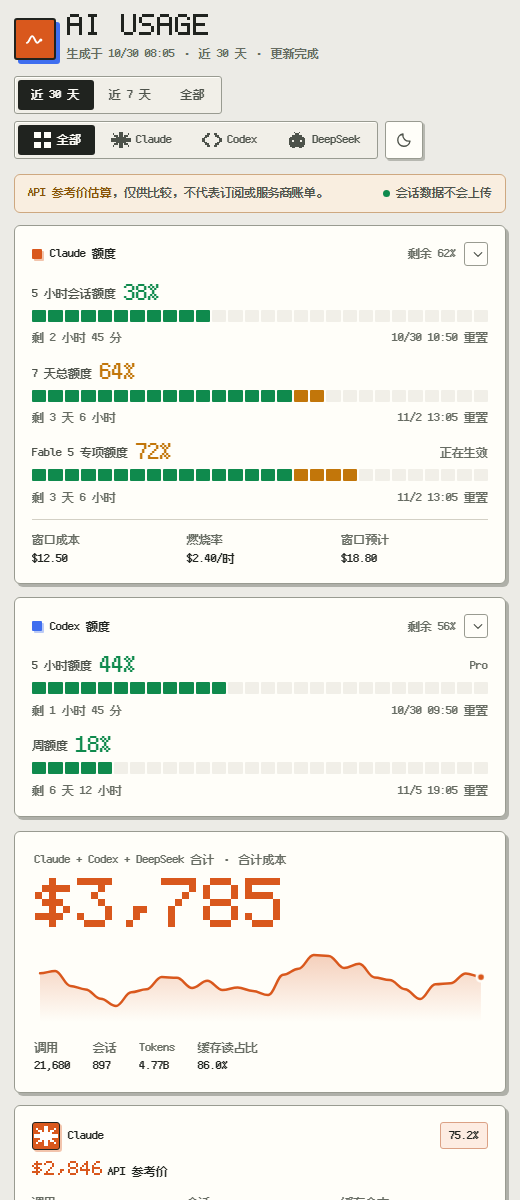
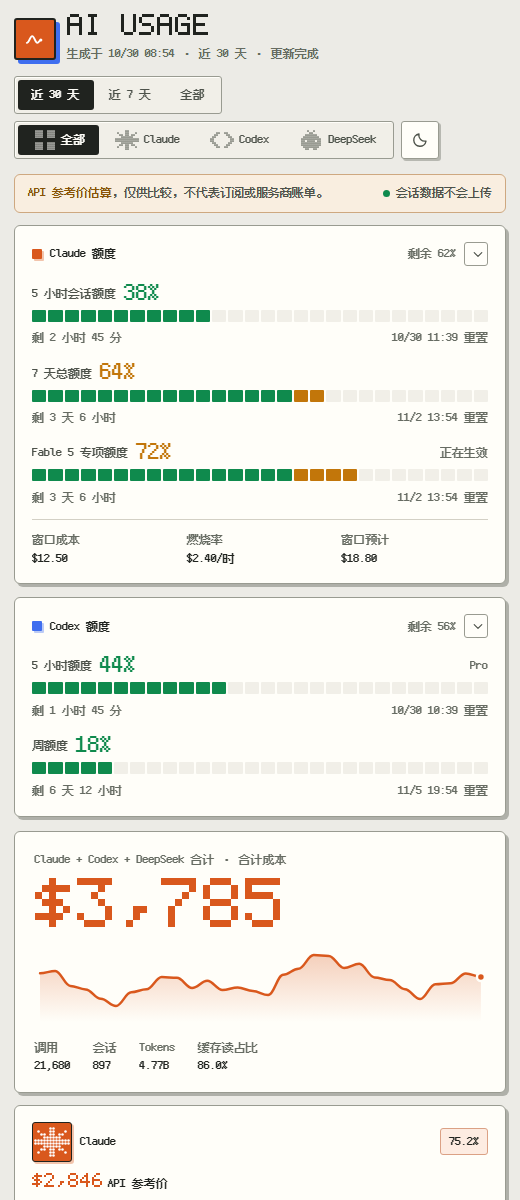
style: render the provider marks as perler-bead mosaics
Each filled cell is now a round bead (r .42, anti-aliased) instead of a solid square, so the four provider glyphs read like a fuse-bead chart: beads separate into individual dots at the card chip and blur into a dotted silhouette at filter size, which is the honest limit at 24px. The chip grows to 40px and the glyph to 36px so the bead pitch clears three pixels; everything else keeps its size. Docs screenshots re-rendered.

diff --git a/src/template.html b/src/template.html
@@ -278,8 +278,8 @@
   .prov { padding: 1rem 1.1rem; --p: var(--claude); display: grid; gap: .7rem; }
   .prov-top { display: flex; align-items: center; gap: .5rem; }
   .prov-name { display: inline-flex; align-items: center; gap: .5rem; font-weight: 700; }
-  .prov-name .chip { inline-size: 28px; block-size: 28px; border: 1px solid var(--ink); border-radius: var(--r-item); display: grid; place-items: center; color: #fff; background: var(--p); box-shadow: 2px 2px 0 color-mix(in oklab, var(--p) 35%, transparent); flex: none; }
-  .prov-name .chip svg { inline-size: 24px; block-size: 24px; }
+  .prov-name .chip { inline-size: 40px; block-size: 40px; border: 1px solid var(--ink); border-radius: var(--r-item); display: grid; place-items: center; color: #fff; background: var(--p); box-shadow: 2px 2px 0 color-mix(in oklab, var(--p) 35%, transparent); flex: none; }
+  .prov-name .chip svg { inline-size: 36px; block-size: 36px; }
   .prov-share { margin-inline-start: auto; padding: .15rem .5rem; border: 1px solid color-mix(in oklab, var(--p) 42%, var(--line)); border-radius: var(--r-item); background: color-mix(in oklab, var(--p) 11%, var(--card)); color: var(--ink); font-size: .75rem; font-weight: 600; }
   .prov-cost-row { display: flex; align-items: end; gap: .35rem; flex-wrap: wrap; min-inline-size: 0; }
   .prov-cost { display: inline-block; max-inline-size: 100%; color: var(--p); }
@@ -561,77 +561,237 @@
     <path d="M4 15.5c2.6 0 3.2-7 5.6-7s2.9 7 5.4 7c1.6 0 2.3-3 3.6-3"/>
     <circle cx="18.6" cy="12.5" r="1.6" fill="currentColor" stroke="none"/>
   </symbol>
-  <symbol id="i-all" viewBox="0 0 12 12" fill="currentColor" shape-rendering="crispEdges">
-    <rect x="2" y="1" width="4" height="1"/>
-    <rect x="8" y="1" width="4" height="1"/>
-    <rect x="2" y="2" width="4" height="1"/>
-    <rect x="8" y="2" width="4" height="1"/>
-    <rect x="2" y="3" width="4" height="1"/>
-    <rect x="8" y="3" width="4" height="1"/>
-    <rect x="2" y="4" width="4" height="1"/>
-    <rect x="8" y="4" width="4" height="1"/>
-    <rect x="2" y="7" width="4" height="1"/>
-    <rect x="8" y="7" width="4" height="1"/>
-    <rect x="2" y="8" width="4" height="1"/>
-    <rect x="8" y="8" width="4" height="1"/>
-    <rect x="2" y="9" width="4" height="1"/>
-    <rect x="8" y="9" width="4" height="1"/>
-    <rect x="2" y="10" width="4" height="1"/>
-    <rect x="8" y="10" width="4" height="1"/>
+  <symbol id="i-all" viewBox="0 0 12 12" fill="currentColor">
+    <circle cx="2.5" cy="1.5" r="0.42" fill="currentColor"/>
+    <circle cx="3.5" cy="1.5" r="0.42" fill="currentColor"/>
+    <circle cx="4.5" cy="1.5" r="0.42" fill="currentColor"/>
+    <circle cx="5.5" cy="1.5" r="0.42" fill="currentColor"/>
+    <circle cx="8.5" cy="1.5" r="0.42" fill="currentColor"/>
+    <circle cx="9.5" cy="1.5" r="0.42" fill="currentColor"/>
+    <circle cx="10.5" cy="1.5" r="0.42" fill="currentColor"/>
+    <circle cx="11.5" cy="1.5" r="0.42" fill="currentColor"/>
+    <circle cx="2.5" cy="2.5" r="0.42" fill="currentColor"/>
+    <circle cx="3.5" cy="2.5" r="0.42" fill="currentColor"/>
+    <circle cx="4.5" cy="2.5" r="0.42" fill="currentColor"/>
+    <circle cx="5.5" cy="2.5" r="0.42" fill="currentColor"/>
+    <circle cx="8.5" cy="2.5" r="0.42" fill="currentColor"/>
+    <circle cx="9.5" cy="2.5" r="0.42" fill="currentColor"/>
+    <circle cx="10.5" cy="2.5" r="0.42" fill="currentColor"/>
+    <circle cx="11.5" cy="2.5" r="0.42" fill="currentColor"/>
+    <circle cx="2.5" cy="3.5" r="0.42" fill="currentColor"/>
+    <circle cx="3.5" cy="3.5" r="0.42" fill="currentColor"/>
+    <circle cx="4.5" cy="3.5" r="0.42" fill="currentColor"/>
+    <circle cx="5.5" cy="3.5" r="0.42" fill="currentColor"/>
+    <circle cx="8.5" cy="3.5" r="0.42" fill="currentColor"/>
+    <circle cx="9.5" cy="3.5" r="0.42" fill="currentColor"/>
+    <circle cx="10.5" cy="3.5" r="0.42" fill="currentColor"/>
+    <circle cx="11.5" cy="3.5" r="0.42" fill="currentColor"/>
+    <circle cx="2.5" cy="4.5" r="0.42" fill="currentColor"/>
+    <circle cx="3.5" cy="4.5" r="0.42" fill="currentColor"/>
+    <circle cx="4.5" cy="4.5" r="0.42" fill="currentColor"/>
+    <circle cx="5.5" cy="4.5" r="0.42" fill="currentColor"/>
+    <circle cx="8.5" cy="4.5" r="0.42" fill="currentColor"/>
+    <circle cx="9.5" cy="4.5" r="0.42" fill="currentColor"/>
+    <circle cx="10.5" cy="4.5" r="0.42" fill="currentColor"/>
+    <circle cx="11.5" cy="4.5" r="0.42" fill="currentColor"/>
+    <circle cx="2.5" cy="7.5" r="0.42" fill="currentColor"/>
+    <circle cx="3.5" cy="7.5" r="0.42" fill="currentColor"/>
+    <circle cx="4.5" cy="7.5" r="0.42" fill="currentColor"/>
+    <circle cx="5.5" cy="7.5" r="0.42" fill="currentColor"/>
+    <circle cx="8.5" cy="7.5" r="0.42" fill="currentColor"/>
+    <circle cx="9.5" cy="7.5" r="0.42" fill="currentColor"/>
+    <circle cx="10.5" cy="7.5" r="0.42" fill="currentColor"/>
+    <circle cx="11.5" cy="7.5" r="0.42" fill="currentColor"/>
+    <circle cx="2.5" cy="8.5" r="0.42" fill="currentColor"/>
+    <circle cx="3.5" cy="8.5" r="0.42" fill="currentColor"/>
+    <circle cx="4.5" cy="8.5" r="0.42" fill="currentColor"/>
+    <circle cx="5.5" cy="8.5" r="0.42" fill="currentColor"/>
+    <circle cx="8.5" cy="8.5" r="0.42" fill="currentColor"/>
+    <circle cx="9.5" cy="8.5" r="0.42" fill="currentColor"/>
+    <circle cx="10.5" cy="8.5" r="0.42" fill="currentColor"/>
+    <circle cx="11.5" cy="8.5" r="0.42" fill="currentColor"/>
+    <circle cx="2.5" cy="9.5" r="0.42" fill="currentColor"/>
+    <circle cx="3.5" cy="9.5" r="0.42" fill="currentColor"/>
+    <circle cx="4.5" cy="9.5" r="0.42" fill="currentColor"/>
+    <circle cx="5.5" cy="9.5" r="0.42" fill="currentColor"/>
+    <circle cx="8.5" cy="9.5" r="0.42" fill="currentColor"/>
+    <circle cx="9.5" cy="9.5" r="0.42" fill="currentColor"/>
+    <circle cx="10.5" cy="9.5" r="0.42" fill="currentColor"/>
+    <circle cx="11.5" cy="9.5" r="0.42" fill="currentColor"/>
+    <circle cx="2.5" cy="10.5" r="0.42" fill="currentColor"/>
+    <circle cx="3.5" cy="10.5" r="0.42" fill="currentColor"/>
+    <circle cx="4.5" cy="10.5" r="0.42" fill="currentColor"/>
+    <circle cx="5.5" cy="10.5" r="0.42" fill="currentColor"/>
+    <circle cx="8.5" cy="10.5" r="0.42" fill="currentColor"/>
+    <circle cx="9.5" cy="10.5" r="0.42" fill="currentColor"/>
+    <circle cx="10.5" cy="10.5" r="0.42" fill="currentColor"/>
+    <circle cx="11.5" cy="10.5" r="0.42" fill="currentColor"/>
   </symbol>
-  <symbol id="i-claude" viewBox="0 0 12 12" fill="currentColor" shape-rendering="crispEdges">
-    <rect x="5" y="1" width="2" height="1"/>
-    <rect x="1" y="2" width="1" height="1"/>
-    <rect x="5" y="2" width="2" height="1"/>
-    <rect x="10" y="2" width="1" height="1"/>
-    <rect x="2" y="3" width="2" height="1"/>
-    <rect x="5" y="3" width="2" height="1"/>
-    <rect x="8" y="3" width="2" height="1"/>
-    <rect x="3" y="4" width="6" height="1"/>
-    <rect x="0" y="5" width="12" height="1"/>
-    <rect x="0" y="6" width="12" height="1"/>
-    <rect x="3" y="7" width="6" height="1"/>
-    <rect x="2" y="8" width="2" height="1"/>
-    <rect x="5" y="8" width="2" height="1"/>
-    <rect x="8" y="8" width="2" height="1"/>
-    <rect x="1" y="9" width="1" height="1"/>
-    <rect x="5" y="9" width="2" height="1"/>
-    <rect x="10" y="9" width="1" height="1"/>
-    <rect x="5" y="10" width="2" height="1"/>
+  <symbol id="i-claude" viewBox="0 0 12 12" fill="currentColor">
+    <circle cx="5.5" cy="1.5" r="0.42" fill="currentColor"/>
+    <circle cx="6.5" cy="1.5" r="0.42" fill="currentColor"/>
+    <circle cx="1.5" cy="2.5" r="0.42" fill="currentColor"/>
+    <circle cx="5.5" cy="2.5" r="0.42" fill="currentColor"/>
+    <circle cx="6.5" cy="2.5" r="0.42" fill="currentColor"/>
+    <circle cx="10.5" cy="2.5" r="0.42" fill="currentColor"/>
+    <circle cx="2.5" cy="3.5" r="0.42" fill="currentColor"/>
+    <circle cx="3.5" cy="3.5" r="0.42" fill="currentColor"/>
+    <circle cx="5.5" cy="3.5" r="0.42" fill="currentColor"/>
+    <circle cx="6.5" cy="3.5" r="0.42" fill="currentColor"/>
+    <circle cx="8.5" cy="3.5" r="0.42" fill="currentColor"/>
+    <circle cx="9.5" cy="3.5" r="0.42" fill="currentColor"/>
+    <circle cx="3.5" cy="4.5" r="0.42" fill="currentColor"/>
+    <circle cx="4.5" cy="4.5" r="0.42" fill="currentColor"/>
+    <circle cx="5.5" cy="4.5" r="0.42" fill="currentColor"/>
+    <circle cx="6.5" cy="4.5" r="0.42" fill="currentColor"/>
+    <circle cx="7.5" cy="4.5" r="0.42" fill="currentColor"/>
+    <circle cx="8.5" cy="4.5" r="0.42" fill="currentColor"/>
+    <circle cx="0.5" cy="5.5" r="0.42" fill="currentColor"/>
+    <circle cx="1.5" cy="5.5" r="0.42" fill="currentColor"/>
+    <circle cx="2.5" cy="5.5" r="0.42" fill="currentColor"/>
+    <circle cx="3.5" cy="5.5" r="0.42" fill="currentColor"/>
+    <circle cx="4.5" cy="5.5" r="0.42" fill="currentColor"/>
+    <circle cx="5.5" cy="5.5" r="0.42" fill="currentColor"/>
+    <circle cx="6.5" cy="5.5" r="0.42" fill="currentColor"/>
+    <circle cx="7.5" cy="5.5" r="0.42" fill="currentColor"/>
+    <circle cx="8.5" cy="5.5" r="0.42" fill="currentColor"/>
+    <circle cx="9.5" cy="5.5" r="0.42" fill="currentColor"/>
+    <circle cx="10.5" cy="5.5" r="0.42" fill="currentColor"/>
+    <circle cx="11.5" cy="5.5" r="0.42" fill="currentColor"/>
+    <circle cx="0.5" cy="6.5" r="0.42" fill="currentColor"/>
+    <circle cx="1.5" cy="6.5" r="0.42" fill="currentColor"/>
+    <circle cx="2.5" cy="6.5" r="0.42" fill="currentColor"/>
+    <circle cx="3.5" cy="6.5" r="0.42" fill="currentColor"/>
+    <circle cx="4.5" cy="6.5" r="0.42" fill="currentColor"/>
+    <circle cx="5.5" cy="6.5" r="0.42" fill="currentColor"/>
+    <circle cx="6.5" cy="6.5" r="0.42" fill="currentColor"/>
+    <circle cx="7.5" cy="6.5" r="0.42" fill="currentColor"/>
+    <circle cx="8.5" cy="6.5" r="0.42" fill="currentColor"/>
+    <circle cx="9.5" cy="6.5" r="0.42" fill="currentColor"/>
+    <circle cx="10.5" cy="6.5" r="0.42" fill="currentColor"/>
+    <circle cx="11.5" cy="6.5" r="0.42" fill="currentColor"/>
+    <circle cx="3.5" cy="7.5" r="0.42" fill="currentColor"/>
+    <circle cx="4.5" cy="7.5" r="0.42" fill="currentColor"/>
+    <circle cx="5.5" cy="7.5" r="0.42" fill="currentColor"/>
+    <circle cx="6.5" cy="7.5" r="0.42" fill="currentColor"/>
+    <circle cx="7.5" cy="7.5" r="0.42" fill="currentColor"/>
+    <circle cx="8.5" cy="7.5" r="0.42" fill="currentColor"/>
+    <circle cx="2.5" cy="8.5" r="0.42" fill="currentColor"/>
+    <circle cx="3.5" cy="8.5" r="0.42" fill="currentColor"/>
+    <circle cx="5.5" cy="8.5" r="0.42" fill="currentColor"/>
+    <circle cx="6.5" cy="8.5" r="0.42" fill="currentColor"/>
+    <circle cx="8.5" cy="8.5" r="0.42" fill="currentColor"/>
+    <circle cx="9.5" cy="8.5" r="0.42" fill="currentColor"/>
+    <circle cx="1.5" cy="9.5" r="0.42" fill="currentColor"/>
+    <circle cx="5.5" cy="9.5" r="0.42" fill="currentColor"/>
+    <circle cx="6.5" cy="9.5" r="0.42" fill="currentColor"/>
+    <circle cx="10.5" cy="9.5" r="0.42" fill="currentColor"/>
+    <circle cx="5.5" cy="10.5" r="0.42" fill="currentColor"/>
+    <circle cx="6.5" cy="10.5" r="0.42" fill="currentColor"/>
   </symbol>
-  <symbol id="i-codex" viewBox="0 0 12 12" fill="currentColor" shape-rendering="crispEdges">
-    <rect x="3" y="2" width="2" height="1"/>
-    <rect x="7" y="2" width="2" height="1"/>
-    <rect x="2" y="3" width="2" height="1"/>
-    <rect x="8" y="3" width="2" height="1"/>
-    <rect x="1" y="4" width="2" height="1"/>
-    <rect x="9" y="4" width="2" height="1"/>
-    <rect x="0" y="5" width="2" height="1"/>
-    <rect x="10" y="5" width="2" height="1"/>
-    <rect x="0" y="6" width="2" height="1"/>
-    <rect x="10" y="6" width="2" height="1"/>
-    <rect x="1" y="7" width="2" height="1"/>
-    <rect x="9" y="7" width="2" height="1"/>
-    <rect x="2" y="8" width="2" height="1"/>
-    <rect x="8" y="8" width="2" height="1"/>
-    <rect x="3" y="9" width="2" height="1"/>
-    <rect x="7" y="9" width="2" height="1"/>
+  <symbol id="i-codex" viewBox="0 0 12 12" fill="currentColor">
+    <circle cx="3.5" cy="2.5" r="0.42" fill="currentColor"/>
+    <circle cx="4.5" cy="2.5" r="0.42" fill="currentColor"/>
+    <circle cx="7.5" cy="2.5" r="0.42" fill="currentColor"/>
+    <circle cx="8.5" cy="2.5" r="0.42" fill="currentColor"/>
+    <circle cx="2.5" cy="3.5" r="0.42" fill="currentColor"/>
+    <circle cx="3.5" cy="3.5" r="0.42" fill="currentColor"/>
+    <circle cx="8.5" cy="3.5" r="0.42" fill="currentColor"/>
+    <circle cx="9.5" cy="3.5" r="0.42" fill="currentColor"/>
+    <circle cx="1.5" cy="4.5" r="0.42" fill="currentColor"/>
+    <circle cx="2.5" cy="4.5" r="0.42" fill="currentColor"/>
+    <circle cx="9.5" cy="4.5" r="0.42" fill="currentColor"/>
+    <circle cx="10.5" cy="4.5" r="0.42" fill="currentColor"/>
+    <circle cx="0.5" cy="5.5" r="0.42" fill="currentColor"/>
+    <circle cx="1.5" cy="5.5" r="0.42" fill="currentColor"/>
+    <circle cx="10.5" cy="5.5" r="0.42" fill="currentColor"/>
+    <circle cx="11.5" cy="5.5" r="0.42" fill="currentColor"/>
+    <circle cx="0.5" cy="6.5" r="0.42" fill="currentColor"/>
+    <circle cx="1.5" cy="6.5" r="0.42" fill="currentColor"/>
+    <circle cx="10.5" cy="6.5" r="0.42" fill="currentColor"/>
+    <circle cx="11.5" cy="6.5" r="0.42" fill="currentColor"/>
+    <circle cx="1.5" cy="7.5" r="0.42" fill="currentColor"/>
+    <circle cx="2.5" cy="7.5" r="0.42" fill="currentColor"/>
+    <circle cx="9.5" cy="7.5" r="0.42" fill="currentColor"/>
+    <circle cx="10.5" cy="7.5" r="0.42" fill="currentColor"/>
+    <circle cx="2.5" cy="8.5" r="0.42" fill="currentColor"/>
+    <circle cx="3.5" cy="8.5" r="0.42" fill="currentColor"/>
+    <circle cx="8.5" cy="8.5" r="0.42" fill="currentColor"/>
+    <circle cx="9.5" cy="8.5" r="0.42" fill="currentColor"/>
+    <circle cx="3.5" cy="9.5" r="0.42" fill="currentColor"/>
+    <circle cx="4.5" cy="9.5" r="0.42" fill="currentColor"/>
+    <circle cx="7.5" cy="9.5" r="0.42" fill="currentColor"/>
+    <circle cx="8.5" cy="9.5" r="0.42" fill="currentColor"/>
   </symbol>
-  <symbol id="i-deepseek" viewBox="0 0 12 12" fill="currentColor" shape-rendering="crispEdges">
-    <rect x="4" y="1" width="1" height="1"/>
-    <rect x="7" y="1" width="1" height="1"/>
-    <rect x="5" y="2" width="2" height="1"/>
-    <rect x="3" y="3" width="6" height="1"/>
-    <rect x="2" y="4" width="8" height="1"/>
-    <rect x="1" y="5" width="10" height="1"/>
-    <rect x="1" y="6" width="2" height="1"/>
-    <rect x="4" y="6" width="4" height="1"/>
-    <rect x="9" y="6" width="2" height="1"/>
-    <rect x="1" y="7" width="10" height="1"/>
-    <rect x="1" y="8" width="10" height="1"/>
-    <rect x="2" y="9" width="8" height="1"/>
-    <rect x="3" y="10" width="2" height="1"/>
-    <rect x="7" y="10" width="2" height="1"/>
+  <symbol id="i-deepseek" viewBox="0 0 12 12" fill="currentColor">
+    <circle cx="4.5" cy="1.5" r="0.42" fill="currentColor"/>
+    <circle cx="7.5" cy="1.5" r="0.42" fill="currentColor"/>
+    <circle cx="5.5" cy="2.5" r="0.42" fill="currentColor"/>
+    <circle cx="6.5" cy="2.5" r="0.42" fill="currentColor"/>
+    <circle cx="3.5" cy="3.5" r="0.42" fill="currentColor"/>
+    <circle cx="4.5" cy="3.5" r="0.42" fill="currentColor"/>
+    <circle cx="5.5" cy="3.5" r="0.42" fill="currentColor"/>
+    <circle cx="6.5" cy="3.5" r="0.42" fill="currentColor"/>
+    <circle cx="7.5" cy="3.5" r="0.42" fill="currentColor"/>
+    <circle cx="8.5" cy="3.5" r="0.42" fill="currentColor"/>
+    <circle cx="2.5" cy="4.5" r="0.42" fill="currentColor"/>
+    <circle cx="3.5" cy="4.5" r="0.42" fill="currentColor"/>
+    <circle cx="4.5" cy="4.5" r="0.42" fill="currentColor"/>
+    <circle cx="5.5" cy="4.5" r="0.42" fill="currentColor"/>
+    <circle cx="6.5" cy="4.5" r="0.42" fill="currentColor"/>
+    <circle cx="7.5" cy="4.5" r="0.42" fill="currentColor"/>
+    <circle cx="8.5" cy="4.5" r="0.42" fill="currentColor"/>
+    <circle cx="9.5" cy="4.5" r="0.42" fill="currentColor"/>
+    <circle cx="1.5" cy="5.5" r="0.42" fill="currentColor"/>
+    <circle cx="2.5" cy="5.5" r="0.42" fill="currentColor"/>
+    <circle cx="3.5" cy="5.5" r="0.42" fill="currentColor"/>
+    <circle cx="4.5" cy="5.5" r="0.42" fill="currentColor"/>
+    <circle cx="5.5" cy="5.5" r="0.42" fill="currentColor"/>
+    <circle cx="6.5" cy="5.5" r="0.42" fill="currentColor"/>
+    <circle cx="7.5" cy="5.5" r="0.42" fill="currentColor"/>
+    <circle cx="8.5" cy="5.5" r="0.42" fill="currentColor"/>
+    <circle cx="9.5" cy="5.5" r="0.42" fill="currentColor"/>
+    <circle cx="10.5" cy="5.5" r="0.42" fill="currentColor"/>
+    <circle cx="1.5" cy="6.5" r="0.42" fill="currentColor"/>
+    <circle cx="2.5" cy="6.5" r="0.42" fill="currentColor"/>
+    <circle cx="4.5" cy="6.5" r="0.42" fill="currentColor"/>
+    <circle cx="5.5" cy="6.5" r="0.42" fill="currentColor"/>
+    <circle cx="6.5" cy="6.5" r="0.42" fill="currentColor"/>
+    <circle cx="7.5" cy="6.5" r="0.42" fill="currentColor"/>
+    <circle cx="9.5" cy="6.5" r="0.42" fill="currentColor"/>
+    <circle cx="10.5" cy="6.5" r="0.42" fill="currentColor"/>
+    <circle cx="1.5" cy="7.5" r="0.42" fill="currentColor"/>
+    <circle cx="2.5" cy="7.5" r="0.42" fill="currentColor"/>
+    <circle cx="3.5" cy="7.5" r="0.42" fill="currentColor"/>
+    <circle cx="4.5" cy="7.5" r="0.42" fill="currentColor"/>
+    <circle cx="5.5" cy="7.5" r="0.42" fill="currentColor"/>
+    <circle cx="6.5" cy="7.5" r="0.42" fill="currentColor"/>
+    <circle cx="7.5" cy="7.5" r="0.42" fill="currentColor"/>
+    <circle cx="8.5" cy="7.5" r="0.42" fill="currentColor"/>
+    <circle cx="9.5" cy="7.5" r="0.42" fill="currentColor"/>
+    <circle cx="10.5" cy="7.5" r="0.42" fill="currentColor"/>
+    <circle cx="1.5" cy="8.5" r="0.42" fill="currentColor"/>
+    <circle cx="2.5" cy="8.5" r="0.42" fill="currentColor"/>
+    <circle cx="3.5" cy="8.5" r="0.42" fill="currentColor"/>
+    <circle cx="4.5" cy="8.5" r="0.42" fill="currentColor"/>
+    <circle cx="5.5" cy="8.5" r="0.42" fill="currentColor"/>
+    <circle cx="6.5" cy="8.5" r="0.42" fill="currentColor"/>
+    <circle cx="7.5" cy="8.5" r="0.42" fill="currentColor"/>
+    <circle cx="8.5" cy="8.5" r="0.42" fill="currentColor"/>
+    <circle cx="9.5" cy="8.5" r="0.42" fill="currentColor"/>
+    <circle cx="10.5" cy="8.5" r="0.42" fill="currentColor"/>
+    <circle cx="2.5" cy="9.5" r="0.42" fill="currentColor"/>
+    <circle cx="3.5" cy="9.5" r="0.42" fill="currentColor"/>
+    <circle cx="4.5" cy="9.5" r="0.42" fill="currentColor"/>
+    <circle cx="5.5" cy="9.5" r="0.42" fill="currentColor"/>
+    <circle cx="6.5" cy="9.5" r="0.42" fill="currentColor"/>
+    <circle cx="7.5" cy="9.5" r="0.42" fill="currentColor"/>
+    <circle cx="8.5" cy="9.5" r="0.42" fill="currentColor"/>
+    <circle cx="9.5" cy="9.5" r="0.42" fill="currentColor"/>
+    <circle cx="3.5" cy="10.5" r="0.42" fill="currentColor"/>
+    <circle cx="4.5" cy="10.5" r="0.42" fill="currentColor"/>
+    <circle cx="7.5" cy="10.5" r="0.42" fill="currentColor"/>
+    <circle cx="8.5" cy="10.5" r="0.42" fill="currentColor"/>
   </symbol>
   <symbol id="i-theme" viewBox="0 0 24 24" fill="none" stroke="currentColor" stroke-width="1.8" stroke-linecap="round" stroke-linejoin="round">
     <path d="M20 13.4A8 8 0 0 1 10.6 4a8.2 8.2 0 1 0 9.4 9.4Z"/>
@@ -670,10 +830,10 @@
     <div class="topbar-actions">
       <div class="seg" id="periodSeg" role="group" aria-label="统计周期"></div>
       <div class="seg" role="group" aria-label="提供商筛选">
-        <button type="button" data-filter="all" aria-pressed="true"><svg width="20" height="20" aria-hidden="true"><use href="#i-all"/></svg>全部</button>
-        <button type="button" data-filter="claude" aria-pressed="false"><svg width="20" height="20" aria-hidden="true"><use href="#i-claude"/></svg><span translate="no">Claude</span></button>
-        <button type="button" data-filter="codex" aria-pressed="false"><svg width="20" height="20" aria-hidden="true"><use href="#i-codex"/></svg><span translate="no">Codex</span></button>
-        <button type="button" data-filter="deepseek" aria-pressed="false" hidden><svg width="20" height="20" aria-hidden="true"><use href="#i-deepseek"/></svg><span translate="no">DeepSeek</span></button>
+        <button type="button" data-filter="all" aria-pressed="true"><svg width="24" height="24" aria-hidden="true"><use href="#i-all"/></svg>全部</button>
+        <button type="button" data-filter="claude" aria-pressed="false"><svg width="24" height="24" aria-hidden="true"><use href="#i-claude"/></svg><span translate="no">Claude</span></button>
+        <button type="button" data-filter="codex" aria-pressed="false"><svg width="24" height="24" aria-hidden="true"><use href="#i-codex"/></svg><span translate="no">Codex</span></button>
+        <button type="button" data-filter="deepseek" aria-pressed="false" hidden><svg width="24" height="24" aria-hidden="true"><use href="#i-deepseek"/></svg><span translate="no">DeepSeek</span></button>
       </div>
       <button type="button" class="iconbtn" id="themeBtn" aria-pressed="false" aria-label="深色主题">
         <svg width="18" height="18" aria-hidden="true"><use href="#i-theme"/></svg><span class="sr-only">深色主题</span>
